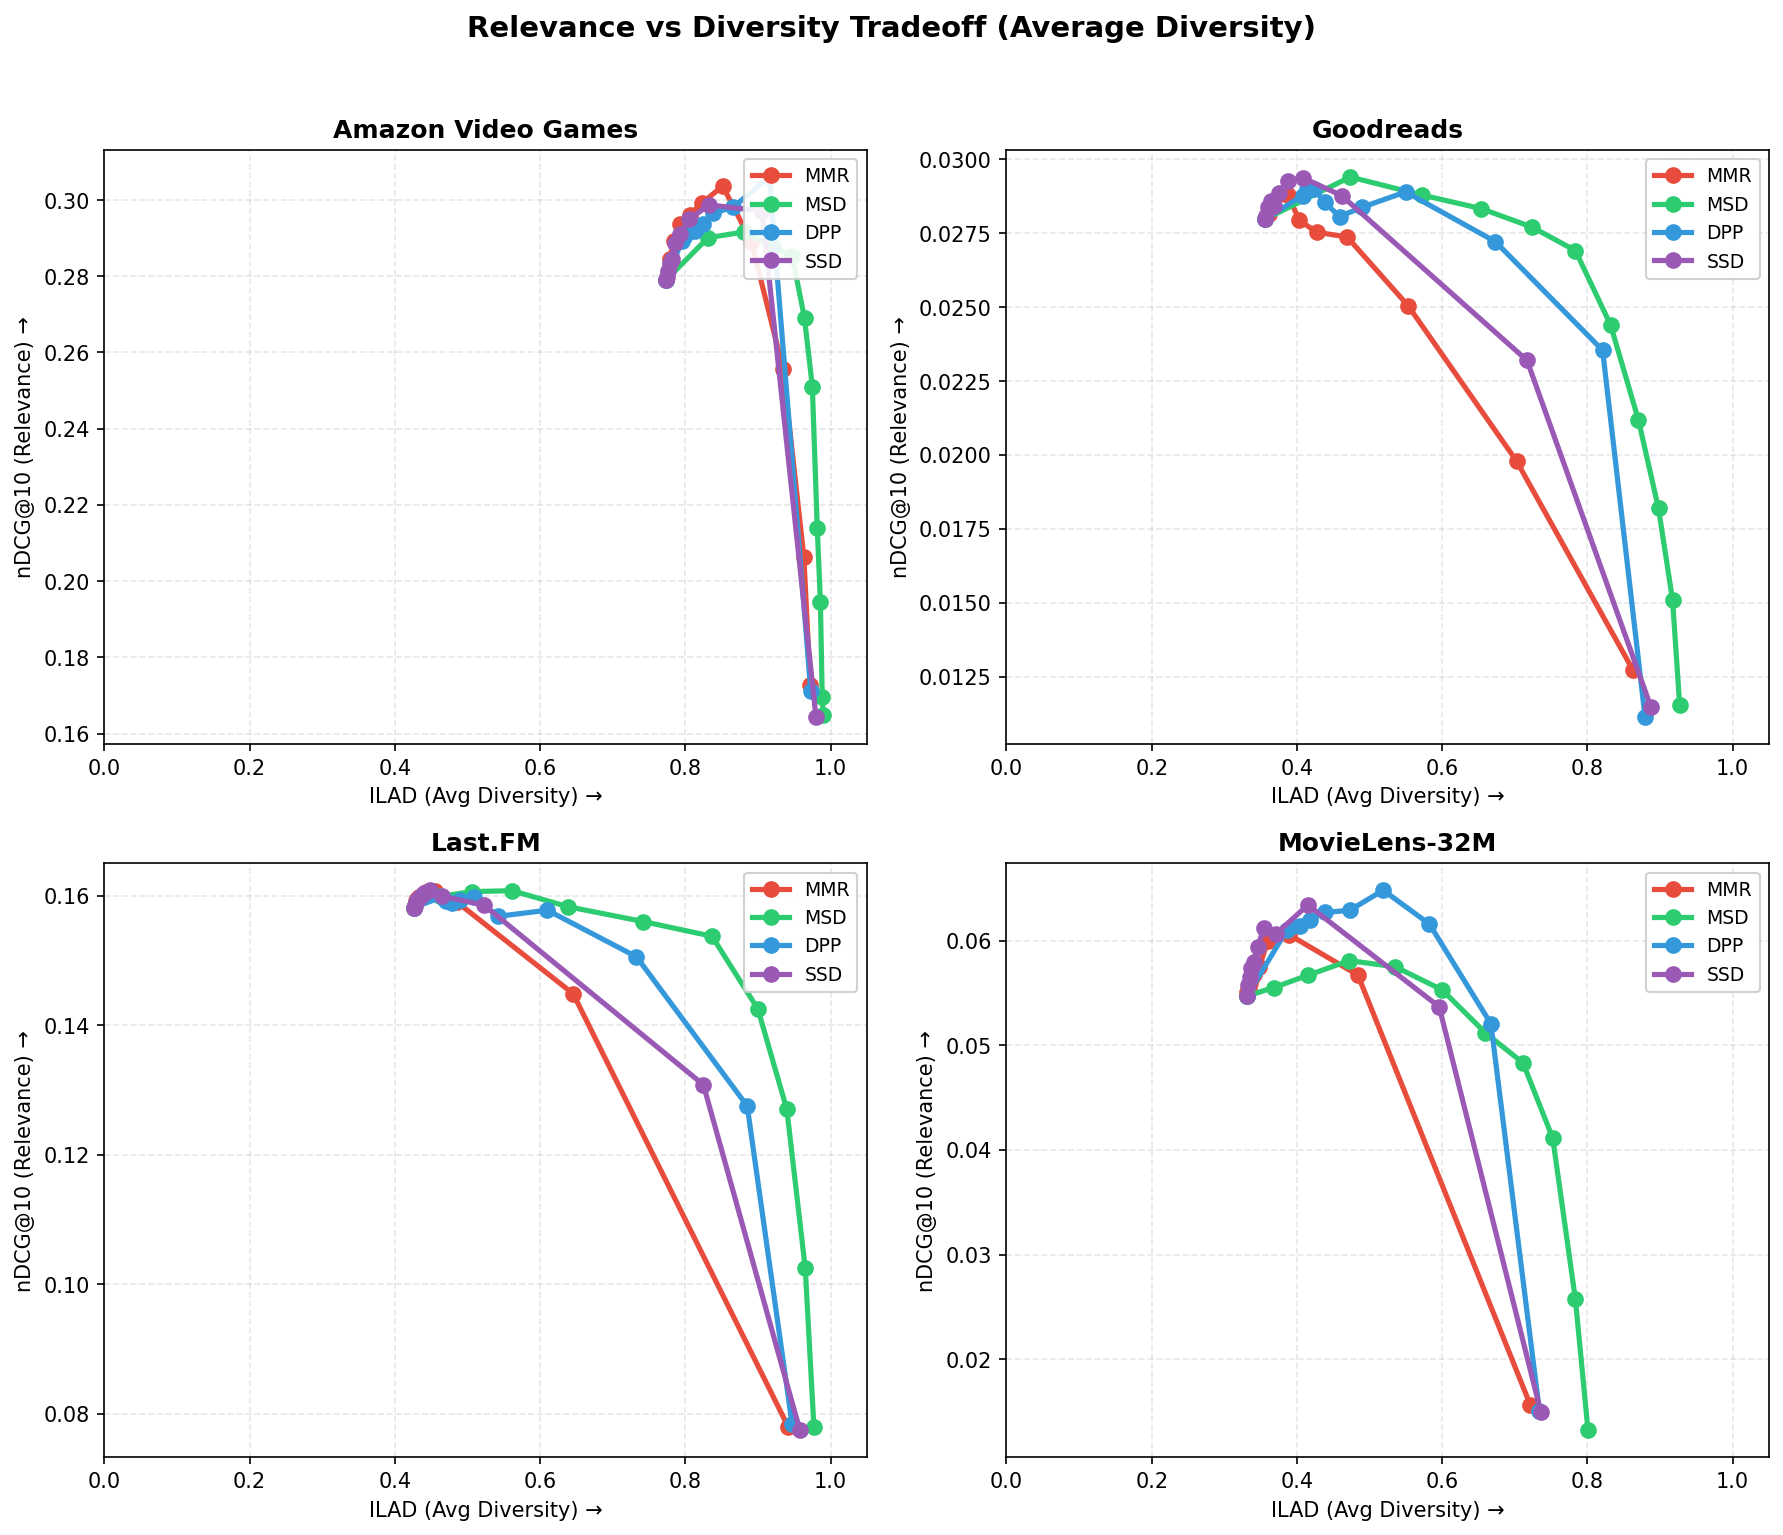
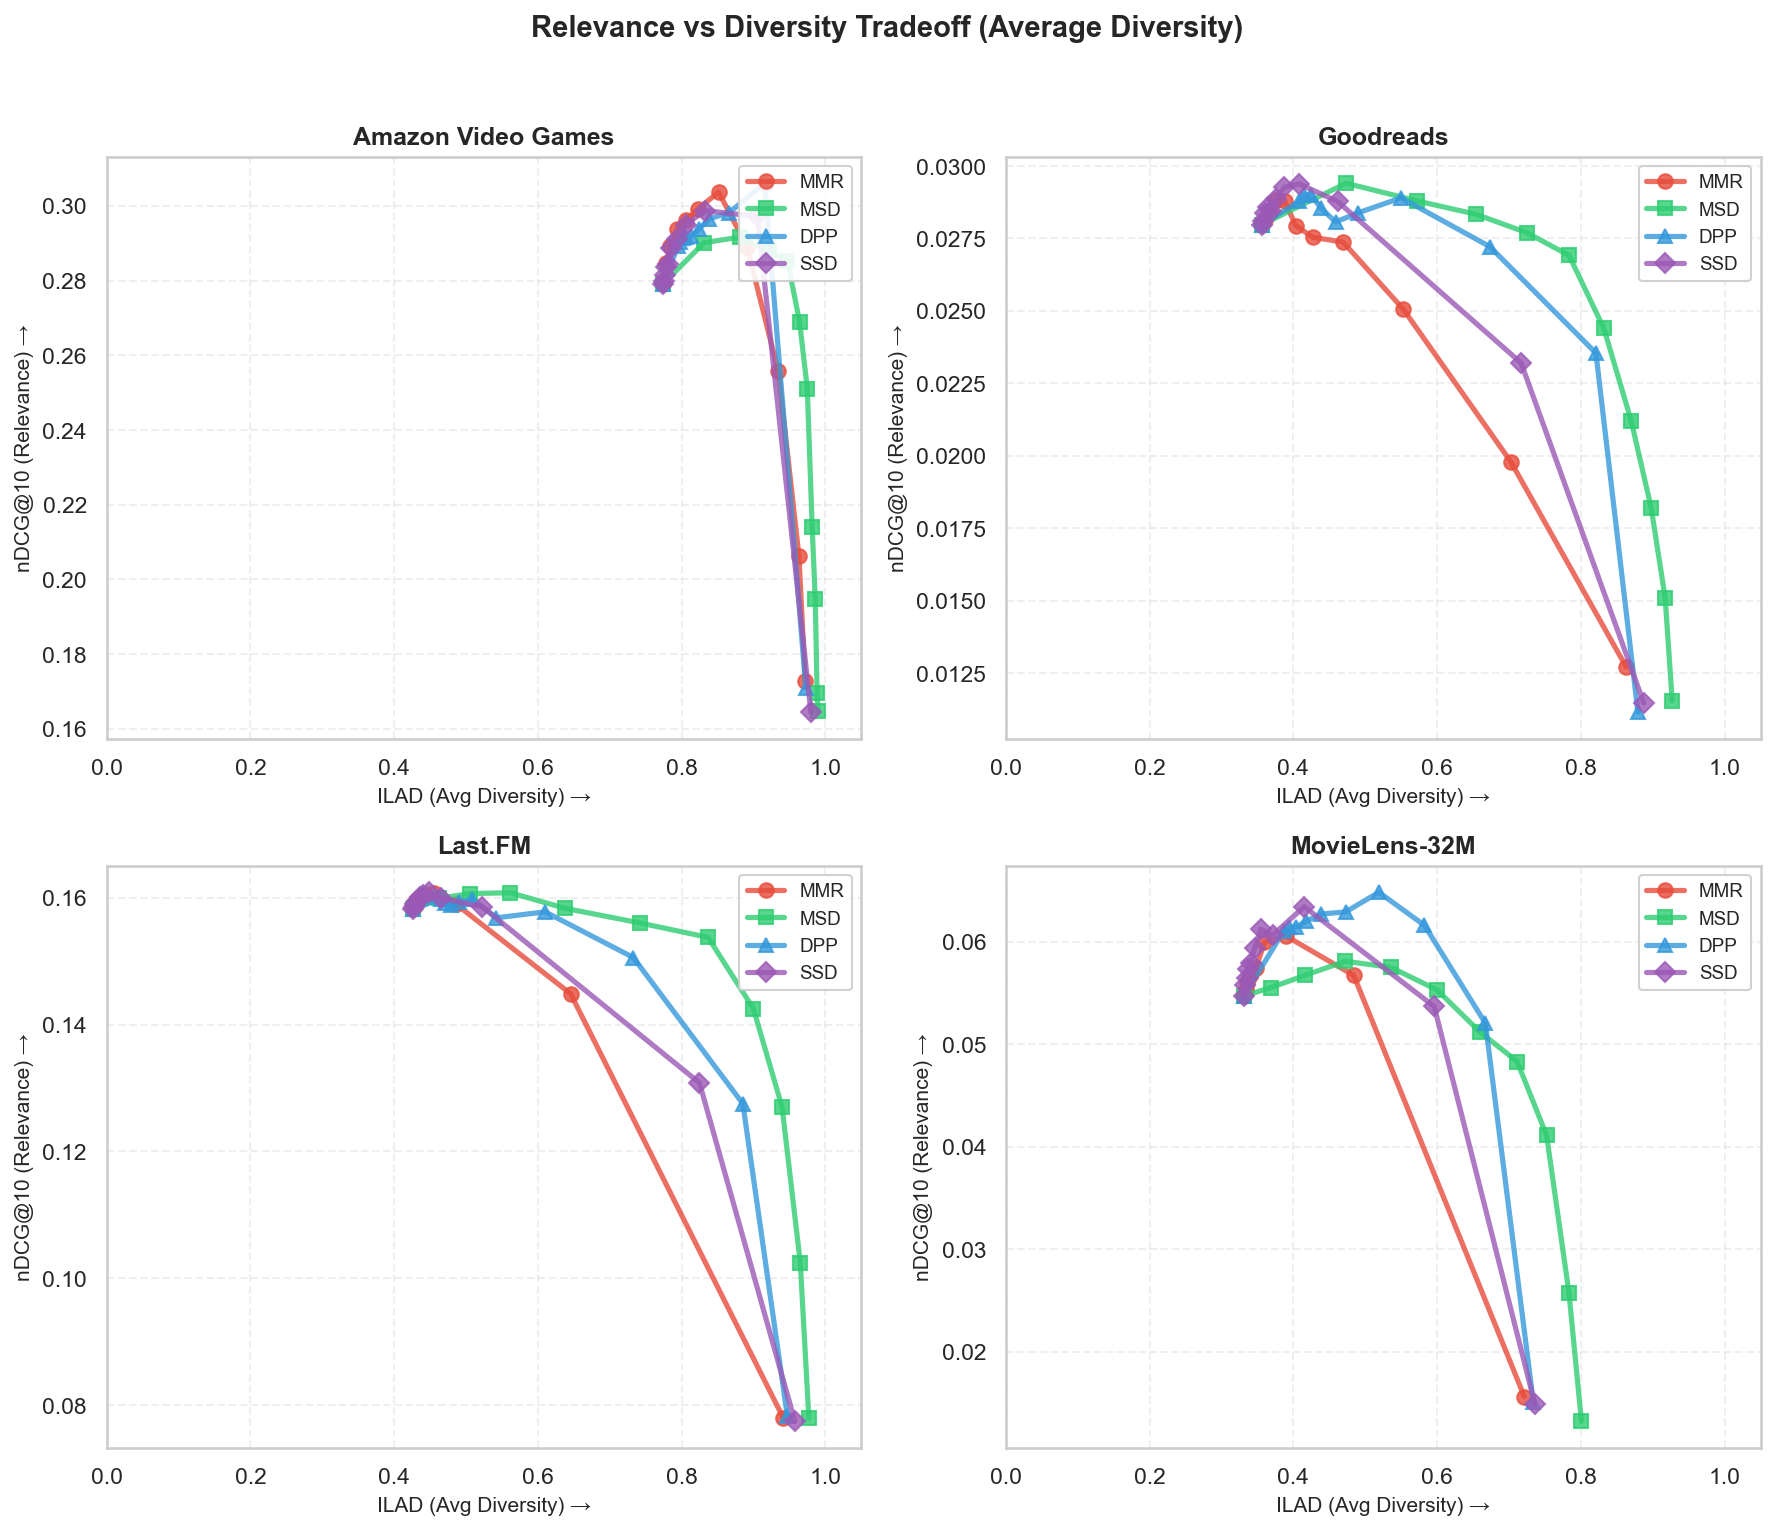
Updated plots

diff --git a/benchmarks/core/report.py b/benchmarks/core/report.py
@@ -209,6 +209,8 @@ def generate_pareto_plot(all_data: list[dict], output_path: Path, diversity_metr
 
     metric_label = "ILAD (Avg Diversity)" if diversity_metric == "ilad" else "ILMD (Min Diversity)"
 
+    markers = {"mmr": "o", "msd": "s", "dpp": "^", "ssd": "D"}
+
     for ax, dataset in zip(axes, datasets):
         for strategy in strategies:
             strategy_points = [p for p in all_data if p["dataset"] == dataset and p["strategy"] == strategy]
@@ -218,7 +220,14 @@ def generate_pareto_plot(all_data: list[dict], output_path: Path, diversity_metr
                 x_vals = [p[diversity_metric] for p in strategy_points]
                 y_vals = [p["ndcg"] for p in strategy_points]
                 ax.plot(
-                    x_vals, y_vals, "o-", color=colors[strategy], label=strategy.upper(), markersize=7, linewidth=2.5
+                    x_vals,
+                    y_vals,
+                    color=colors[strategy],
+                    marker=markers[strategy],
+                    label=strategy.upper(),
+                    markersize=7,
+                    linewidth=2.5,
+                    alpha=0.8,
                 )
 
         ax.set_xlabel(f"{metric_label} →", fontsize=10)
